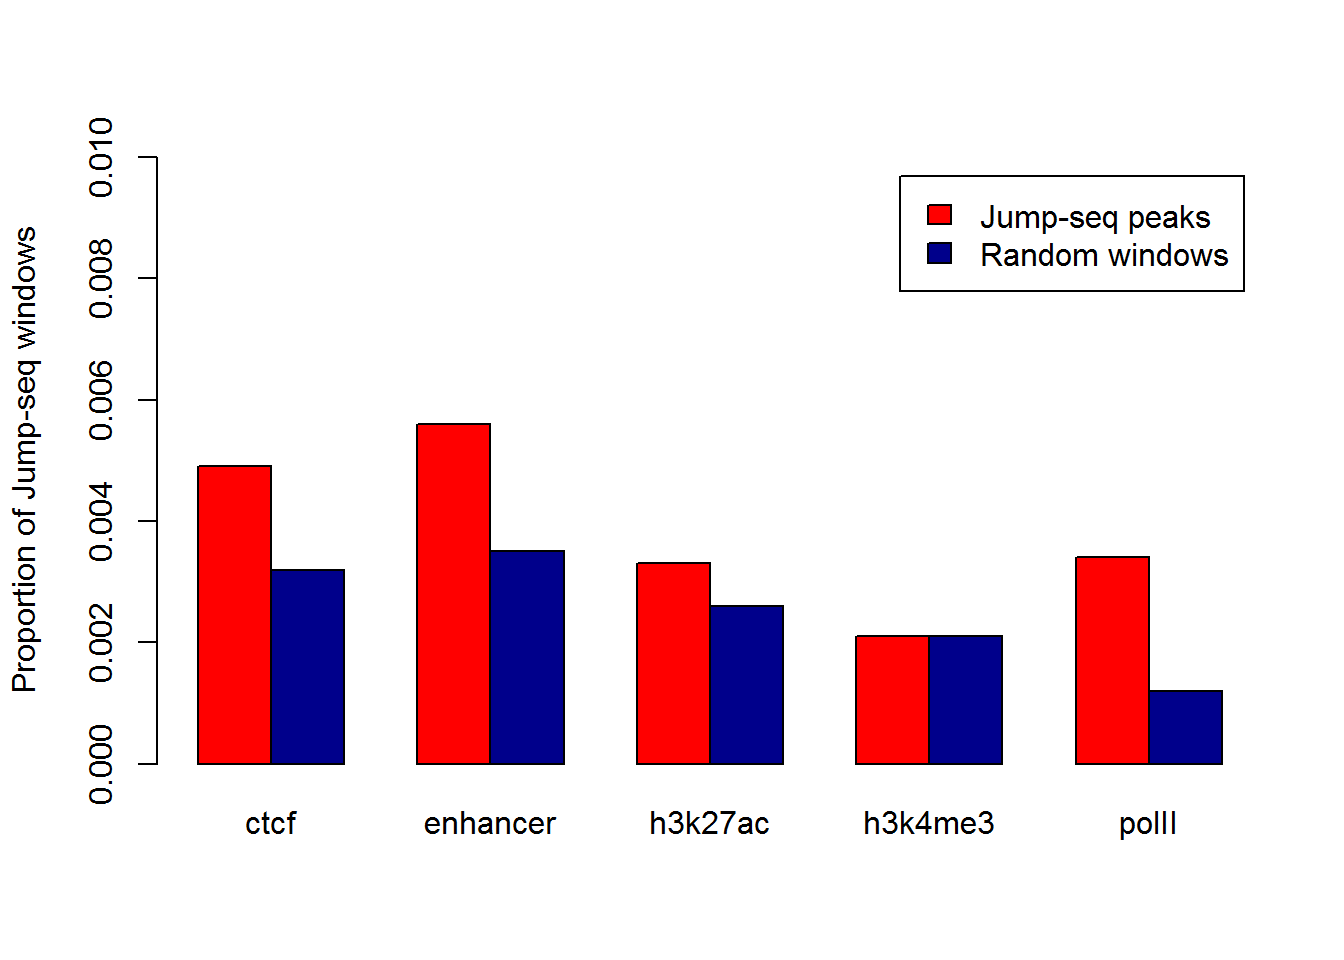
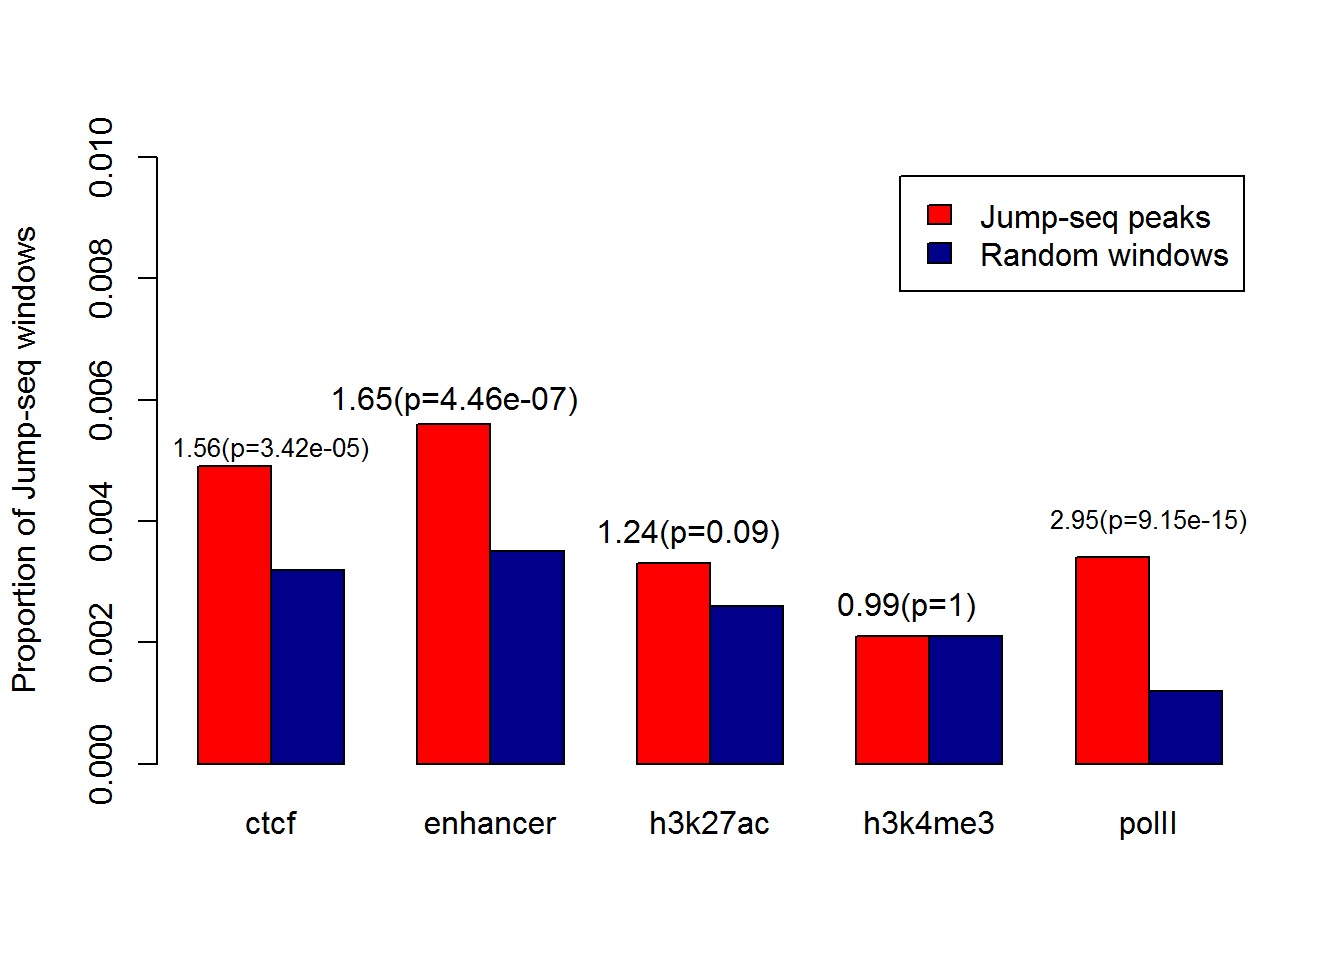
Sep132018

diff --git a/docs/FinalAnalysis.html b/docs/FinalAnalysis.html
@@ -491,6 +491,17 @@ For 0.6ng 5hmC sample, 20 bp windows with at least one reads are called peak win
 <li>cis-regulatory regions are extended 200bp windows.</li>
 <li>jump peaks are 20 bp windows with at least one reads.</li>
 </ul>
+<pre><code>## 
+##  Fisher&#39;s Exact Test for Count Data
+## 
+## data:  count
+## p-value = 9.153e-15
+## alternative hypothesis: true odds ratio is not equal to 1
+## 95 percent confidence interval:
+##  2.294625 3.739875
+## sample estimates:
+## odds ratio 
+##    2.94941</code></pre>
 </div>
 
 <hr>
